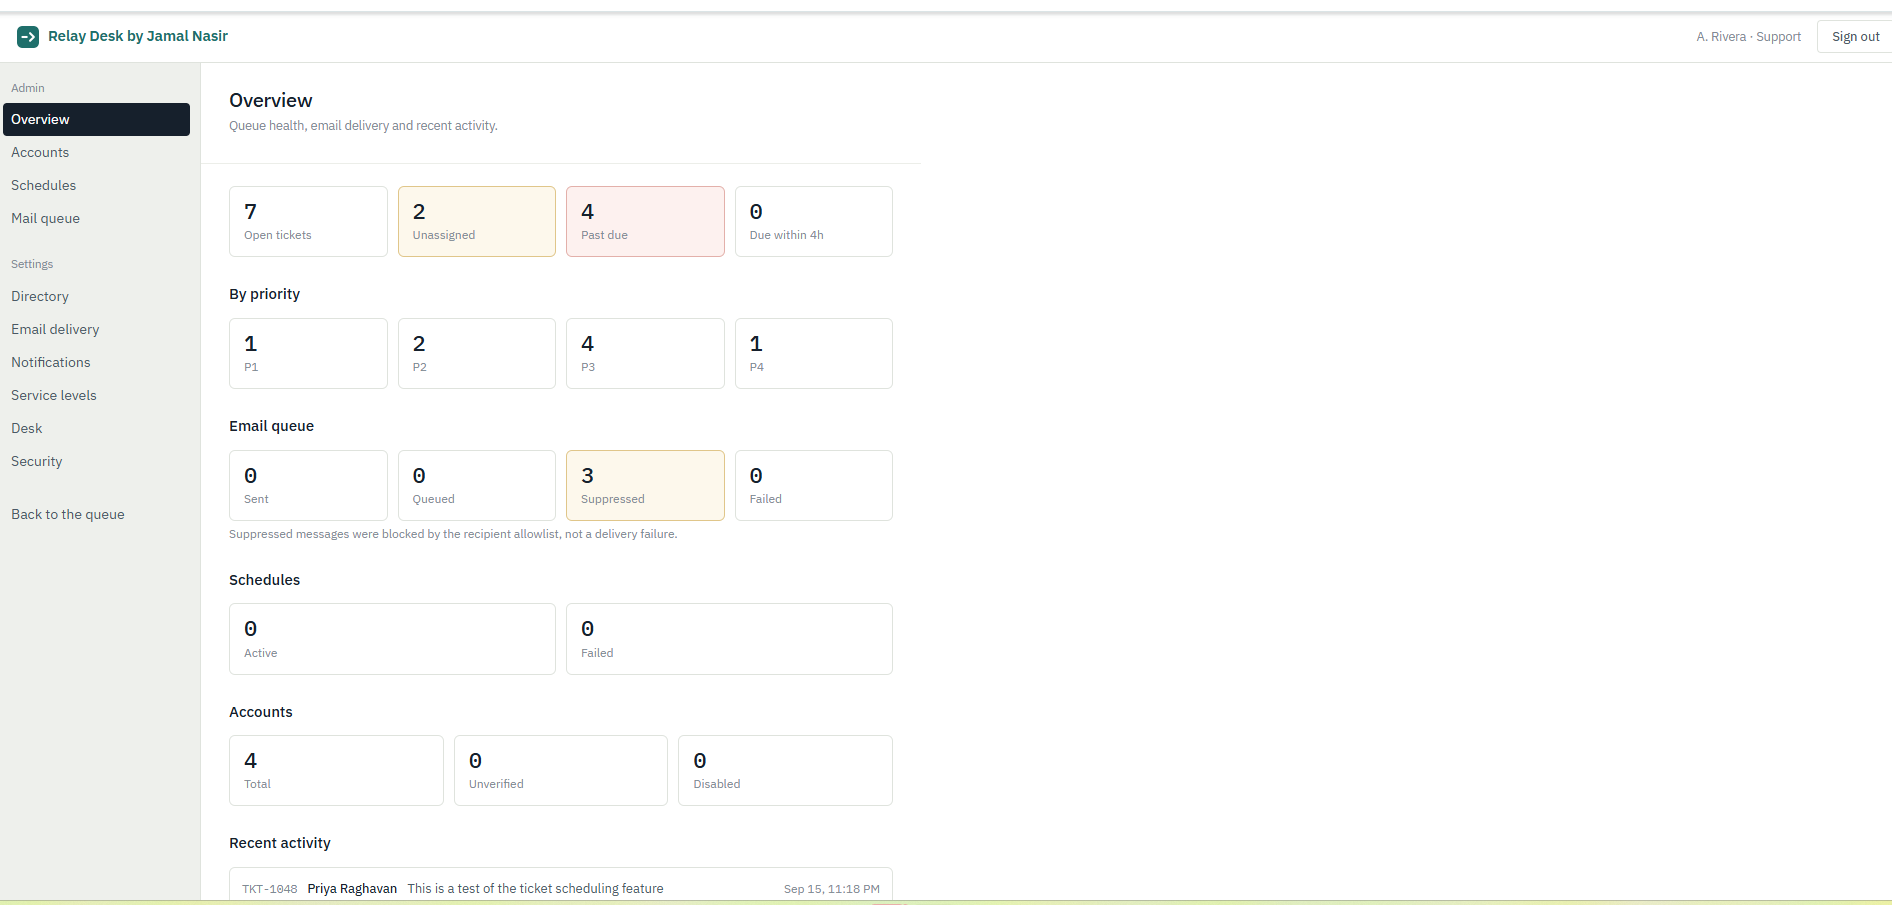
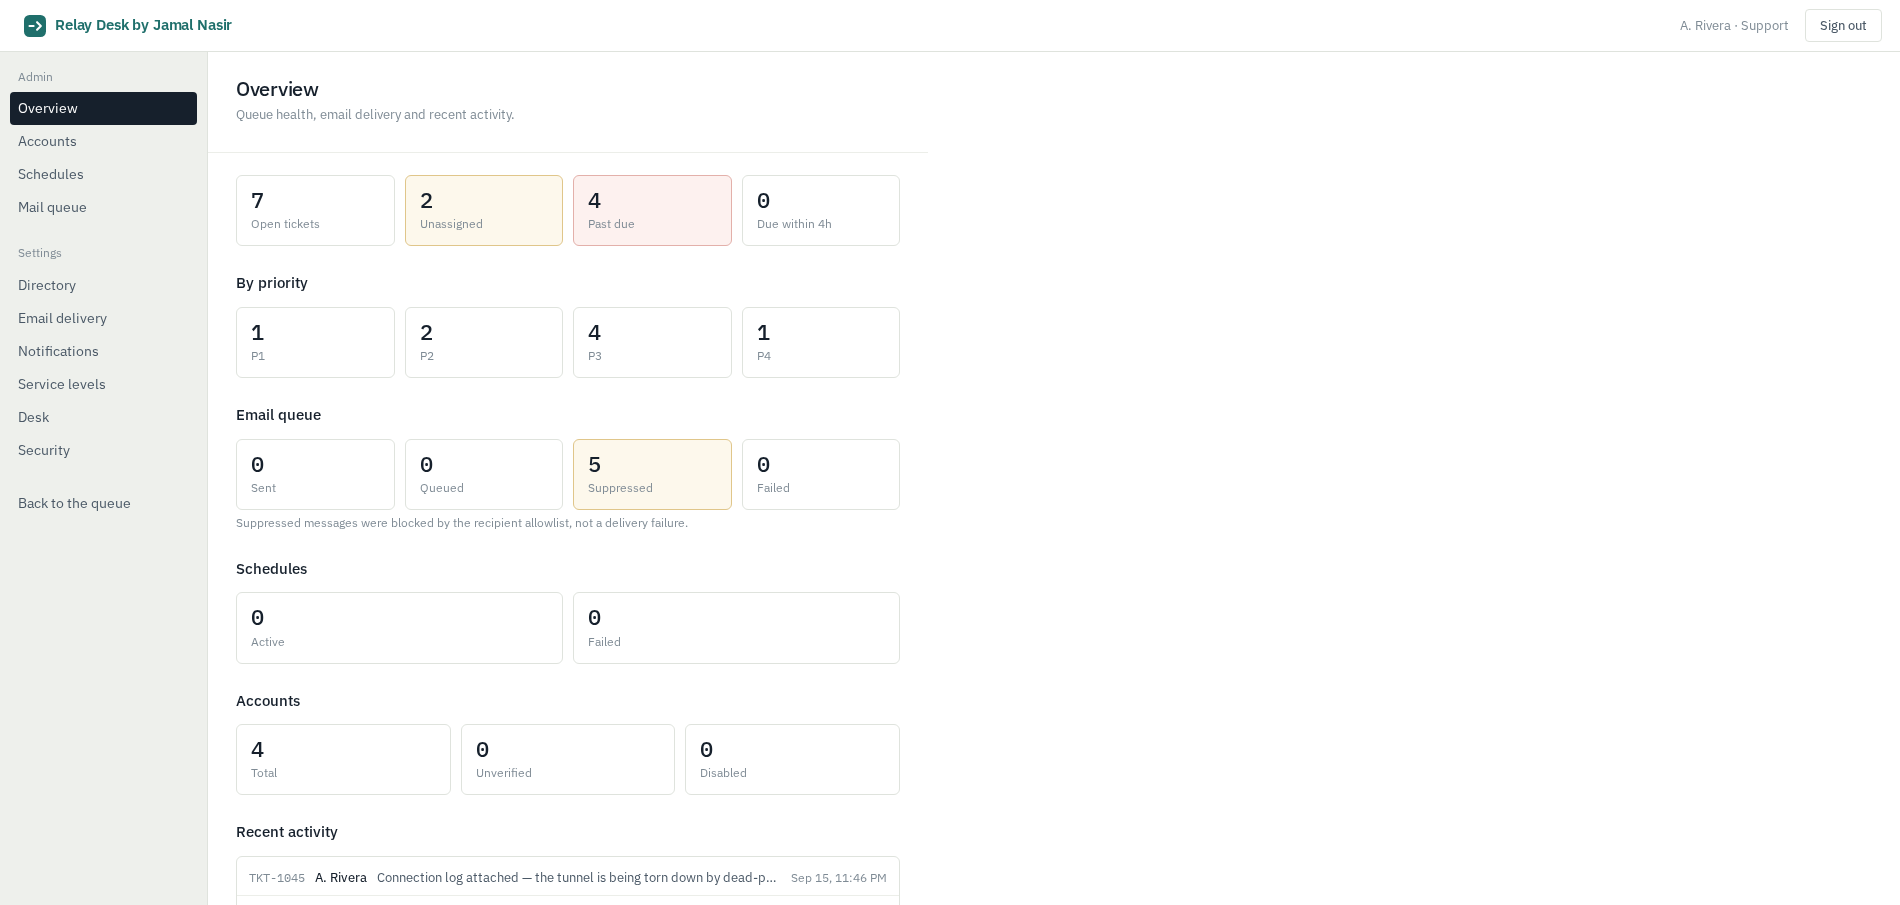
Add five more screenshots to the README
Covers features that "What it does" advertised but no picture showed:
attachments on a ticket, LDAP directory settings, service level targets and
working hours, outbound email configuration, and the mail queue.

The two mail captures were taken against generic settings — a temporary
database override put example.com in place of the real relay identity, and the
override was removed afterwards so the values fall back to .env as before. The
mail queue shot is framed below its header line, which reads the sending address
straight from the environment and so ignores that override.

Also refreshes admin-overview.png, which had gone stale: its recent activity
still showed a throwaway subject, and its suppressed count no longer matched the
queue. Its caption no longer hard-codes that number.

diff --git a/README.md b/README.md
@@ -83,6 +83,16 @@ it is blown, which is why "Past due" reads 4. The last message in the thread
 carries the *Internal, not sent* tag: that is an internal note, and this is the
 only surface it appears on.
 
+![Ticket TKT-1045 in the agent console with a reply carrying an attachment
+chip reading "vpn-connection-log.txt 907 B"](docs/screenshots/attachment.png)
+
+Attachments hang off events rather than tickets, so this log inherits the
+visibility of the reply it is attached to — the same file on an internal note
+would be invisible to the customer along with the note. The content type is
+decided by sniffing the file's bytes rather than trusting the `.txt` extension
+or the browser's `Content-Type`, and the stored filename is generated, so a
+crafted name cannot escape the upload directory.
+
 ### Customer portal
 
 ![Relay Desk customer portal: a "Tell us what broke" filing form with service
@@ -134,15 +144,15 @@ reattributed to a person who filed it after the fact.
 ### Administration
 
 ![Relay Desk admin overview: tiles for open, unassigned, past due and
-due-within-4h tickets, a breakdown by priority, an email queue showing three
-suppressed messages, schedule and account counts, and a recent activity
-list](docs/screenshots/admin-overview.png)
+due-within-4h tickets, a breakdown by priority, an email queue split into sent,
+queued, suppressed and failed, schedule and account counts, and a recent
+activity list](docs/screenshots/admin-overview.png)
 
-Queue health and delivery health on one page. The three *suppressed* messages
-are the `SMTP_ALLOWLIST` safety valve working as intended — a recipient outside
-the allowlist is recorded rather than sent, so routing can be verified without
-mailing real people. Suppressed is counted separately from failed precisely so
-the two are never confused.
+Queue health and delivery health on one page. The *suppressed* count is the
+`SMTP_ALLOWLIST` safety valve working as intended — a recipient outside the
+allowlist is recorded rather than sent, so routing can be verified without
+mailing real people. It is counted separately from *failed* precisely so the two
+are never confused: nothing here is a delivery error.
 
 ![Relay Desk accounts page: four accounts listed with a role dropdown, auth
 source, status, ticket count and last-seen column each, plus Disable and Delete
@@ -152,6 +162,54 @@ Everyone who can sign in. The role dropdown sets a local override that wins over
 the directory, which is how someone is promoted without touching LDAP groups.
 Deleting an account leaves its tickets in place, and neither your own account
 nor the last remaining administrator can be removed.
+
+![Relay Desk directory settings: Enable LDAP checked, with server URL, service
+account DN, a masked service account password, user search base, user filter,
+group search base and agent group DN, each tagged "from
+.env"](docs/screenshots/directory.png)
+
+Staff can authenticate against LDAP or FreeIPA with a per-user bind. Membership
+of the agent group DN grants the agent role, though a role set on the Accounts
+page still overrides the directory. Note the service account password: secrets
+are sealed before storage and never sent back to the browser, so the field shows
+a mask and submitting it untouched leaves the stored value alone.
+
+![Relay Desk service level settings: P1 to P4 targets in hours, checkboxes for
+business-hours-only and pause-while-waiting-on-customer, and working day start,
+end and days fields](docs/screenshots/service-levels.png)
+
+Response targets per priority, and the working calendar that business-hours mode
+walks. The two checkboxes are what switch the engine from wall-clock to working
+time and stop the clock while a ticket sits with the customer. The `from .env`
+badges show where each value is currently resolving from — settings are
+database-first and fall back to the environment, so a target can be changed here
+without a redeploy.
+
+![Relay Desk email delivery settings: enable-email checkbox, SMTP host, port,
+username, a masked password, from address and name, recipient allowlist and app
+URL, each tagged either "from .env" or "set here" with a Reset
+button](docs/screenshots/email-delivery.png)
+
+Outbound relay configuration. The badges are the settings model made visible: a
+value tagged *from .env* is falling back to the environment, while *set here*
+means a database override is in force and can be reverted with `Reset`. The
+password reads as a mask — secrets are sealed before storage and never returned
+to the browser, and submitting the field untouched leaves the stored value
+alone. The recipient allowlist is the safety valve: anything outside it is
+recorded as suppressed rather than sent.
+
+![Relay Desk mail queue: filter tabs for all, queued, sent, suppressed and
+failed, above a table of notifications showing status, recipient, ticket
+reference, subject, reason code and created time, each row with Body and Retry
+actions](docs/screenshots/mail-queue.png)
+
+Nothing is emailed inline. Every notification is queued as a row here and
+drained by a separate worker, so what the system intended to send is inspectable
+after the fact — `Body` shows the exact message, `Retry` requeues a failure. The
+`reason` column says which rule produced each message, and these are all
+*suppressed*: the recipients fell outside the allowlist, so they were recorded
+instead of delivered. Notes and system events appear nowhere here, because they
+notify nobody.
 
 ![Relay Desk notifications settings: nine checkboxes controlling which events
 generate email, all enabled, above a disabled "No changes"
